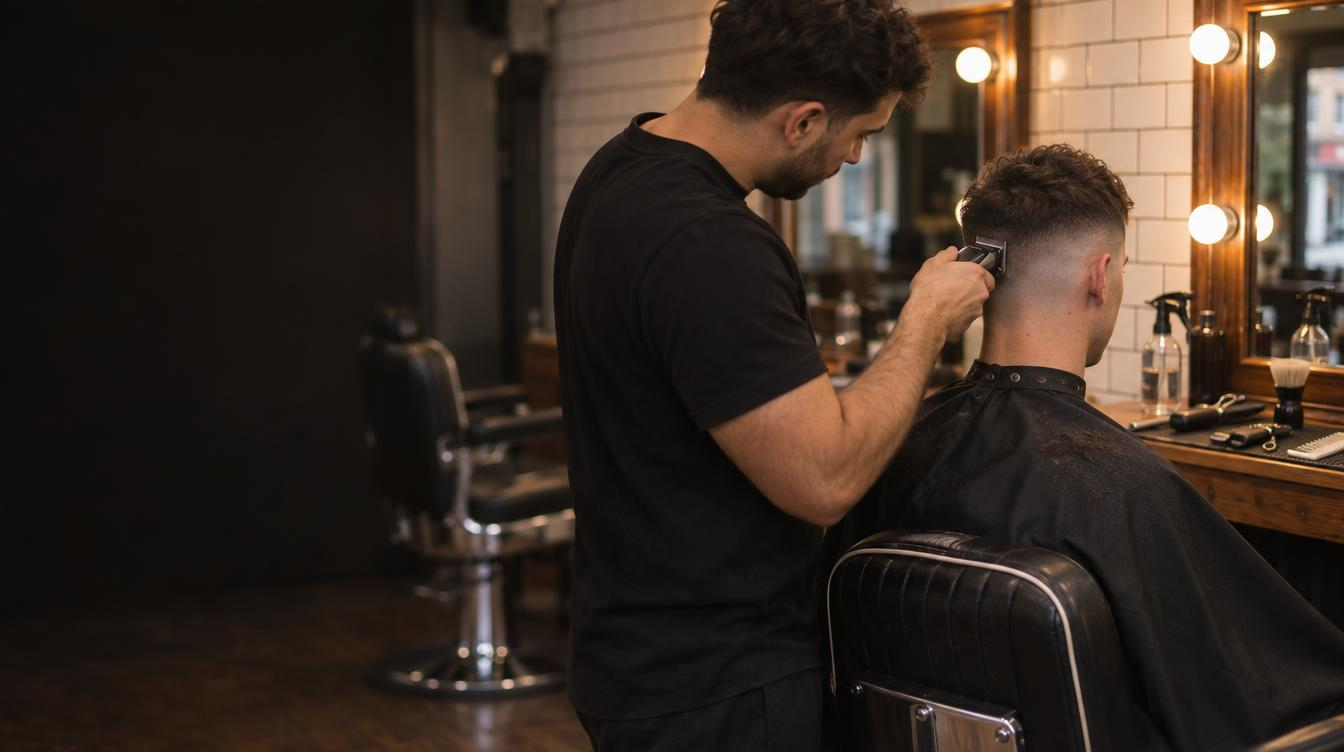
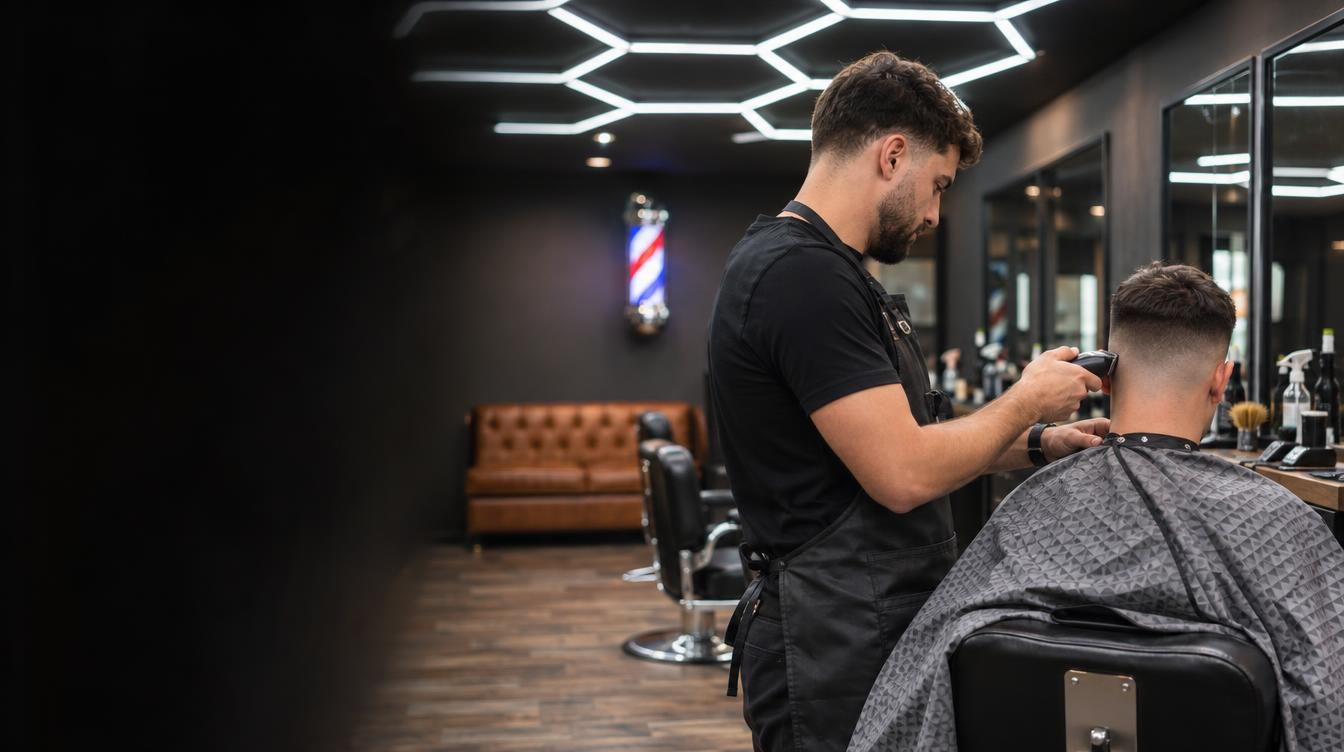
Barber preview: stand-in photos closer to the shop's own look

diff --git a/wow-barbers.html b/wow-barbers.html
@@ -368,7 +368,7 @@ footer{background:var(--dark);color:var(--cream-dim);padding:56px 0;font-size:.9
           <h3>The barbers</h3>
           <span class="sample">Stand-ins. Your names and photos go here.</span>
         </div>
-        <div class="member"><img src="img/wow/hero.jpg" alt="" loading="lazy" style="object-position:48% 20%"><div><b>First name</b><span>Skin fades and tapers</span></div></div>
+        <div class="member"><img src="img/wow/hero.jpg" alt="" loading="lazy" style="object-position:62% 30%"><div><b>First name</b><span>Skin fades and tapers</span></div></div>
         <div class="member"><img src="img/wow/beard.jpg" alt="" loading="lazy" style="object-position:30% 40%"><div><b>First name</b><span>Beards and line-ups</span></div></div>
         <div class="member"><img src="img/wow/tools.jpg" alt="" loading="lazy"><div><b>First name</b><span>Hot towel shaves</span></div></div>
       </div>
